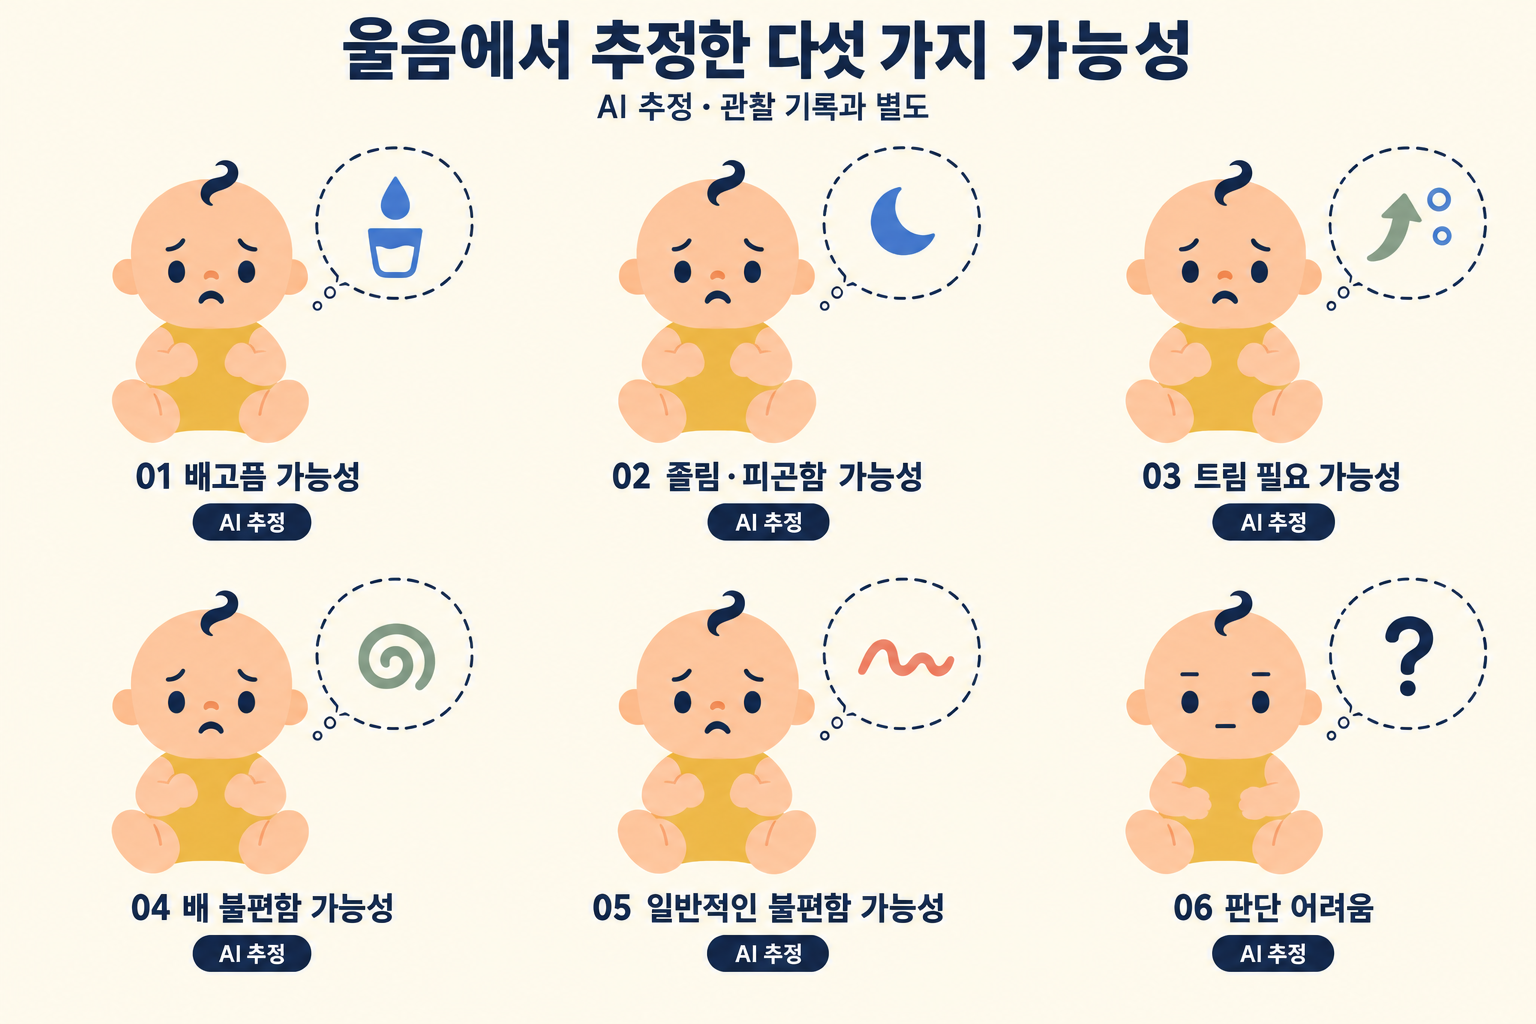
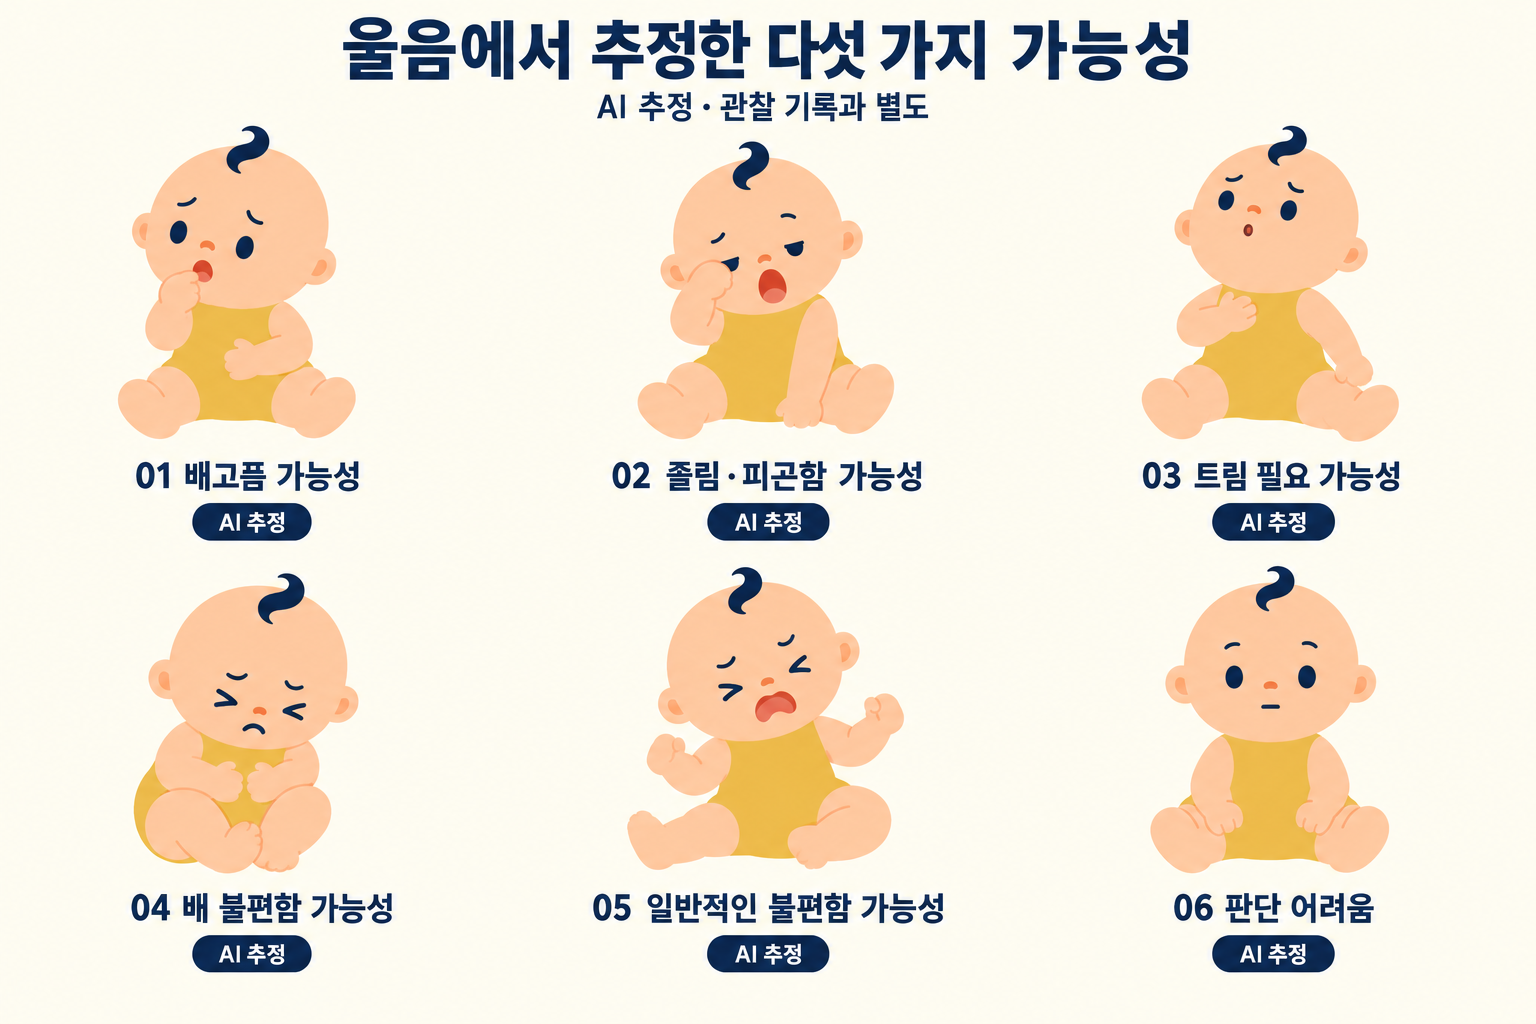
docs: 아기 추정 시안과 웹 컴포넌트 제작안 수정

diff --git a/docs/design/character-motion/generation-prompts.md b/docs/design/character-motion/generation-prompts.md
@@ -3,6 +3,8 @@
 작성일: 2026-09-20
 도구: 내장 image_gen. 세 시트는 검토용 PNG 초안이며 부위별 리그나 모션 파일이 아니다.
 
+현재 AI 추정 시안에는 마지막의 2-2 수정 프롬프트를 적용했다. 아래 원시안의 말풍선 지시는 수정 전 이력으로만 보존한다.
+
 ## 1. 관찰 상태 원시안
 
 Use case: stylized-concept.
@@ -70,12 +72,52 @@ Each cell has ample whitespace, big figures and a clear silhouette at thumbnail 
 
 ## 2-1. AI 판단 어려움의 표정과 옷 통일
 
-undefined
+이전 수정 프롬프트의 전문은 이 파일에 보존되지 않았다. 수정 의도는 판단 어려움의 얼굴을 중립으로 만들고 아기 옷을 다른 시트와 통일하는 것이었다. 원문 프롬프트로 간주하지 않는다.
 
 ## 3-1. 조치와 아기 상태의 독립성 보정
 
-undefined
+이전 수정 프롬프트의 전문은 이 파일에 보존되지 않았다. 수정 의도는 환경 변경·옷 갈아입히기 장면의 아기를 깨어 있는 중립 상태로 바꾸는 것이었다. 원문 프롬프트로 간주하지 않는다.
 
 ## 4. 안아줌 대표 장면
 
-undefined
+이전 생성 프롬프트의 전문은 이 파일에 보존되지 않았다. 결과물은 같은 아기와 파란 옷의 보호자가 큰 곡선으로 구성된 포옹 자세를 만드는 대표 장면이다.
+
+## 2-2. AI 추정을 아기의 표정·손동작·자세로 직접 표현
+
+수정일: 2026-09-20. 실행 방식: 내장 image_gen 편집. 아래는 실제 사용한 프롬프트 전문이다.
+
+- 편집 대상: 커밋 452afc5의 concepts/02-ai-inferences.png. 말풍선을 쓰던 이전 시트.
+- 스타일·캐릭터 참조: concepts/01-observation-states.png.
+- 결과: concepts/02-ai-inferences.png를 수정본으로 교체. 원본 위치와 해시는 image-provenance.json에 기록.
+
+Use case: precise-object-edit.
+Asset type: a revised illustrated character pose sheet for a Korean baby-care product.
+
+Input image 1 is the EDIT TARGET: the six-cell board titled “울음에서 추정한 다섯 가지 가능성”. Input image 2 is a STYLE AND CHARACTER reference only: “아기의 여덟 가지 모습”.
+Revise image 1 so EVERY state is embodied by the BABY'S OWN face, hands, posture, and silhouette. REMOVE ALL thought bubbles, speech bubbles, dots, floating icons, pictograms, question marks, arrows, moons, milk symbols, spirals and abstract emotion marks. Each cell must be a single self-contained illustration of the baby experiencing that state. No explanatory props. The infant itself, not a separate symbol, carries the meaning.
+
+Preserve the landscape 1536x1024 format, warm ivory background, elegant spacious 3-column by 2-row arrangement, Korean title and subtitle, and caption-plus-small-navy-badge structure of image 1. Center each full-body infant over its caption, at similar visual scale, using the space freed by removing the bubbles. Maintain abundant separation; do not crop body parts.
+Match the exact character design and simplified flat shape language of image 2: warm apricot skin, round pear-shaped large infant head, ONE small navy comma curl, small ears, simple navy eyes and expressive eyebrows, simple mouth, short rounded arms and legs, mustard sleeveless one-piece romper. Same proportions and identity in all six cells. Soft clean flat-color vector-like editorial illustration, negligible shading, no gradients, no texture, no 3D. Keep facial gestures bold and readable like image 2.
+
+Draw SIX CLEARLY DIFFERENT POSES, left to right then top to bottom:
+1 HUNGRY: alert eyes with pleading inward-raised brows, head turning slightly to the side as if searching for a feed, partly open searching mouth, one tiny fist pressed to the lips and the other hand resting on the belly. Leaning forward slightly. Hungry seeking expression, not yawning and not happily eating. Entire figure shown.
+2 SLEEPY / TIRED: slumped shoulders, drooping half-closed eyelids, a clear soft open-mouth yawn, one hand rubbing the eye, other arm hanging loosely, relaxed low seated posture. Still awake; no closed sleeping pose.
+3 NEEDS TO BURP: upright three-quarter view with chest lifted and small backward torso arch, chin slightly raised, brows tense, lips a SMALL pursed O (much smaller than tired yawn), one hand over UPPER chest just below the throat and the other at the side. Show upper-body pressure/discomfort through the pose only, with legs relatively open. No emitted breath, bubbles or completed-burp celebration.
+4 BELLY DISCOMFORT: visibly hunched curled-forward torso, knees drawn toward tummy, BOTH hands holding LOWER abdomen, furrowed eyebrows, squeezed eyes, tight grimacing small mouth. Compact curled silhouette distinctly different from upright chest posture in cell 3. No localized red target or medical markings, no extreme agony.
+5 GENERAL DISCOMFORT: restless squirming asymmetrical seated pose, torso twisting sideways, one leg extending outward and the other tucked in, both arms held OUT away from belly as tense bent arms, scrunched dissatisfied eyebrows, downturned small open complaining mouth. Restless body-wide discomfort, no specific abdominal gesture. Distinct from the inward-curled belly pose and from hunger.
+6 UNCERTAIN: calm neutral front-facing upright sitting pose, open level eyes, straight tiny mouth, relaxed arms resting beside knees. No smile, no sadness, no symbols. This is the neutral fallback, not a sixth physical condition.
+
+Exact Korean text to preserve:
+Title: 울음에서 추정한 다섯 가지 가능성
+Subtitle: AI 추정 · 관찰 기록과 별도
+Top row captions:
+01 배고픔 가능성
+02 졸림·피곤함 가능성
+03 트림 필요 가능성
+Bottom row captions:
+04 배 불편함 가능성
+05 일반적인 불편함 가능성
+06 판단 어려움
+A small navy pill reading “AI 추정” under each caption. The badges and title are OUTSIDE the illustrations. No other text.
+
+Priority: make the baby visibly EXPERIENCE each of the five states through a purposeful distinct whole-body pose. Do not repeat an identical sad seated baby. Preserve the same original infant and the visual language of the other concept sheets.
